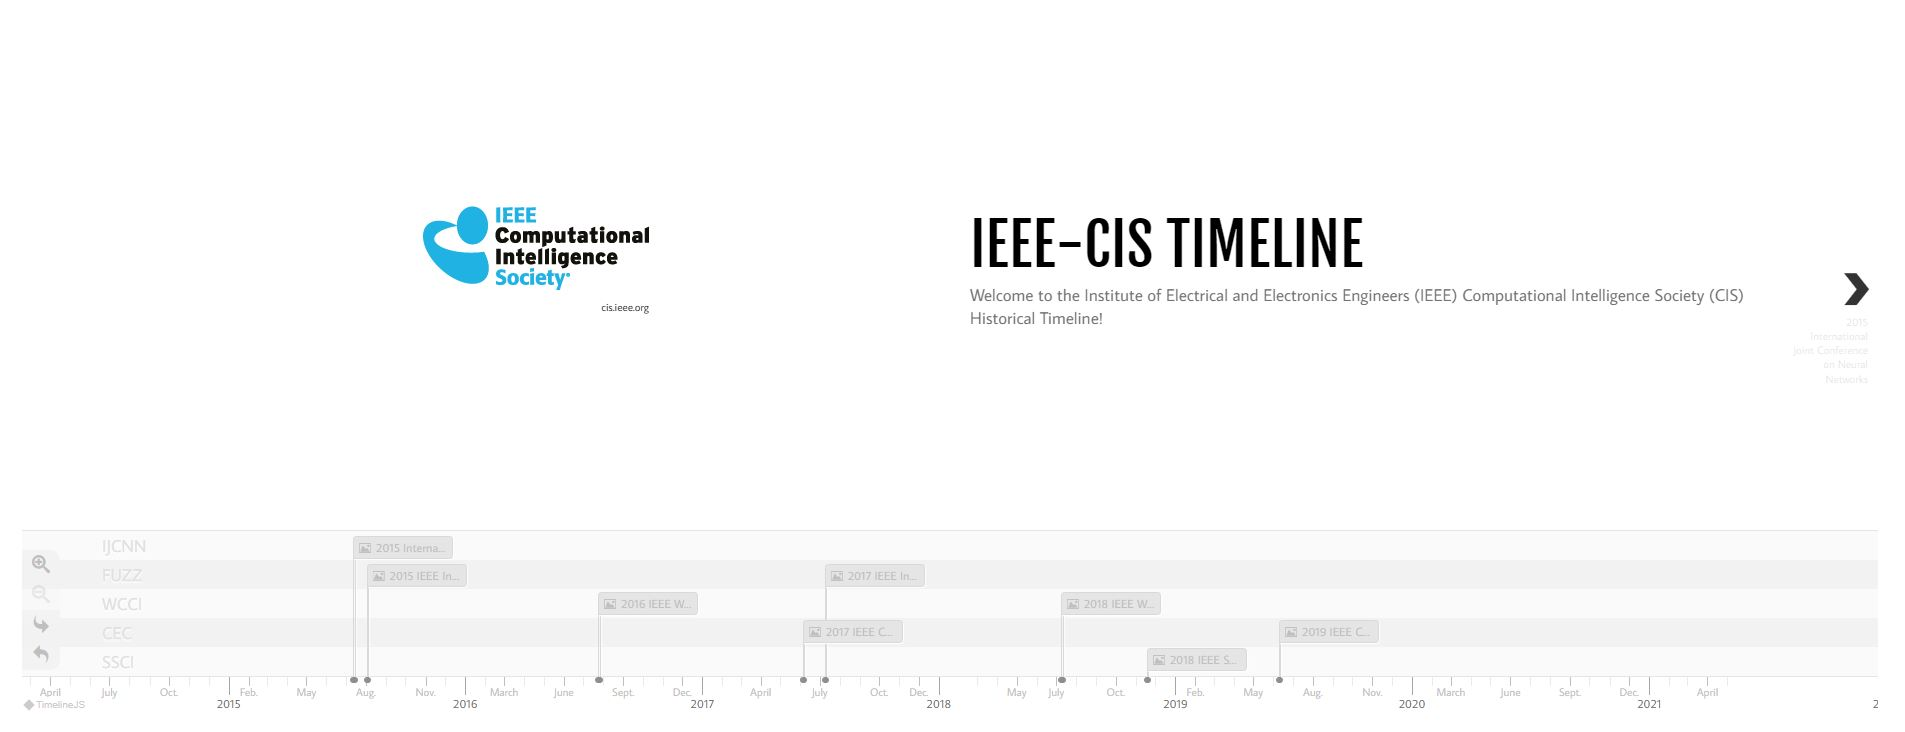
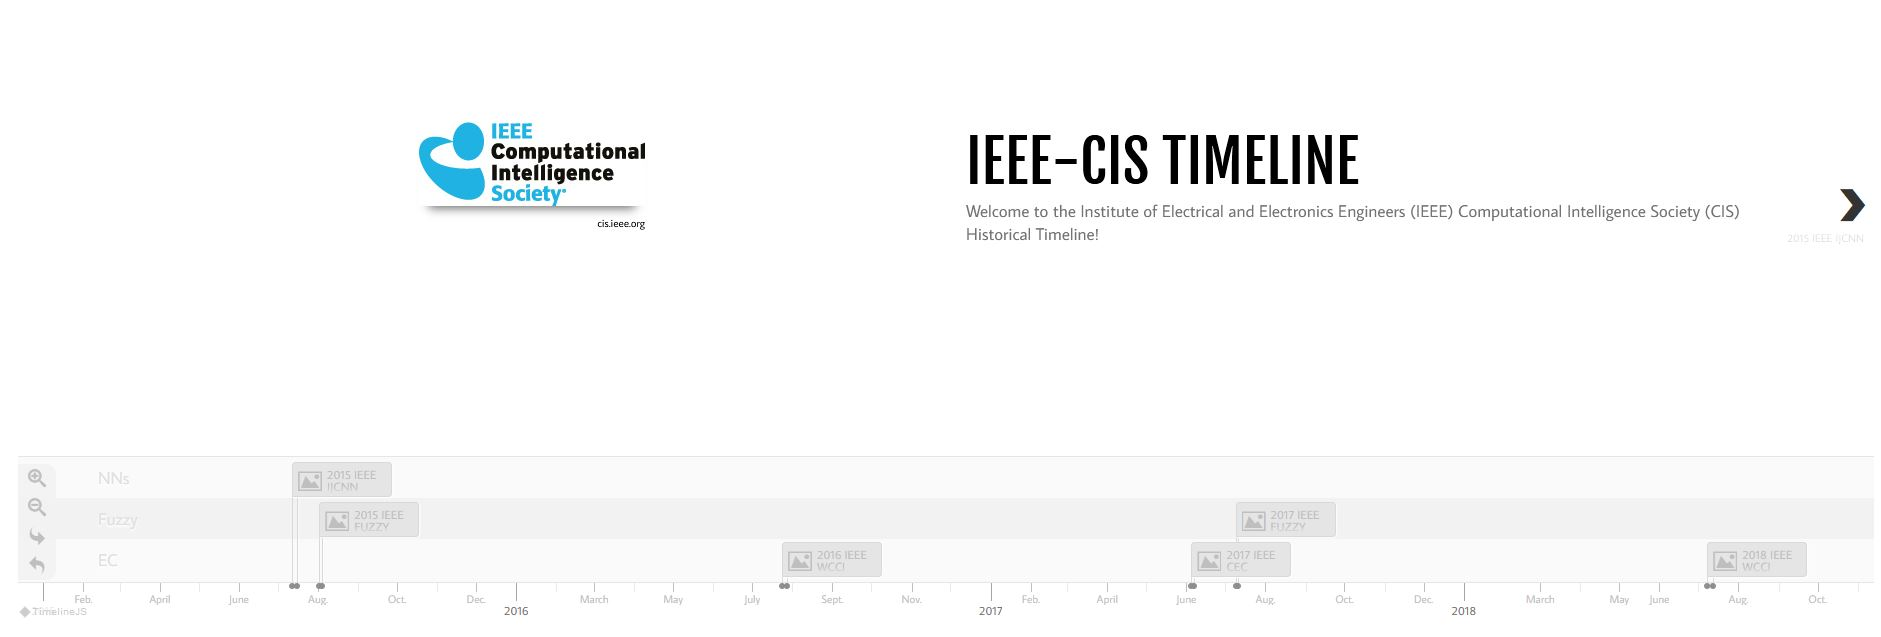
only 3 areas
fixing areas.

diff --git a/index.html b/index.html
@@ -28,7 +28,7 @@
         <button onclick="document.location='timeline-Launch.html'">Launch Production Timeline</button> <!-- Using JSON file -->
         <p>Welcome to the Institute of Electrical and Electronics Engineers <b>(IEEE)</b> Computational Intelligence Society <b>(CIS)</b> Historical Timeline!</p>
         <br>
-        <a href="/sandbox-timeline.html">
+        <a href="/sandbox-timeline.html" target="_blank">
           <img src="/img/IEEE-CIS-TIMELINE.JPG" width="90%" style="box-shadow: 0 4px 8px 0 rgba(0, 0, 0, 0.2), 0 6px 20px 0 rgba(0, 0, 0, 0.19);" title="Launch Sandbox Timeline">
         </a>
       </div>

diff --git a/event-manager.php b/event-manager.php
@@ -1,4 +1,4 @@
-Media <?php
+<?php
   ### IEEE-CIS TIMELINE PROJECT
   ### 2022-11 AH
   ### MANAGE EVENTS --> RETRIVE, CREATE, UPDATE OR DELETE TIMELINE EVENTS
@@ -120,21 +120,15 @@ Media <?php
                   $detail = explode("<br>", $eventDetails);
 
                   ### CHECK WHICH GROUP SHOULD BY SELECTED
-                  if($group == 'IJCNN'){
-                    $groupIJCNN = 'selected';
-                    $groupFUZZ = $groupWCCI = $groupCEC = $groupSSCI = '';
-                  }elseif($group == 'FUZZ'){
-                    $groupFUZZ = 'selected';
-                    $groupIJCNN = $groupWCCI = $groupCEC = $groupSSCI = '';
-                  }elseif($group == 'WCCI'){
-                    $groupWCCI = 'selected';
-                    $groupIJCNN = $groupFUZZ = $groupCEC = $groupSSCI = '';
-                  }elseif($group == 'CEC'){
-                    $groupCEC = 'selected';
-                    $groupIJCNN = $groupFUZZ = $groupWCCI = $groupSSCI = '';
-                  }elseif($group == 'SSCI'){
-                    $groupCEC = 'selected';
-                    $groupIJCNN = $groupFUZZ = $groupWCCI = $groupCEC = '';
+                  if($group == 'EC'){
+                    $groupEC = 'selected';
+                    $groupFuzzy = $groupNNs = '';
+                  }elseif($group == 'Fuzzy'){
+                    $groupFuzzy = 'selected';
+                    $groupNNs = $groupEC = '';
+                  }elseif($group == 'NNs'){
+                    $groupNNs = 'selected';
+                    $groupFuzzy = $groupEC = '';
                   }
 
                   echo "<div id='eventView' class='eventView' style='background-color:$color; background-image: url('$backgroundURL');'>
@@ -164,35 +158,46 @@ Media <?php
                         </div>
                         <br>";
 
+                  echo "<div class='iBlock'>";
+                  echo "<h2>Slide Background Color</h2>";
+                  echo "<p>Each event has a slide in the timeline and you can choose a different background color for it.
+                            The text color will be set to white automatically if the background color is dark. </p>";
                   echo "<label for='color'>Slide Background Color:</label> <input type='color' name='color' value='$color' /><br><br>";
                   #echo "<label for='backgroundURL'>Slide background URL:</label><input type='text' name='backgroundURL' value='$backgroundURL' /><br>";
+                  echo "</div>";
 
-                  echo "<hr>";
+                  echo "<div class='iBlock'>";
+                  echo "<h2>Events Dates</h2>";
+                  echo "<p>Every event must have a sart and end date. The date will be displayed in the </p>";
                   echo "<label for='start_date'>Start Date:</label><input type='date' class='dateInput' name='start_date' value='$start_date' /><br>";
                   echo "<label for='end_date'>End Date:</label><input type='date' class='dateInput' name='end_date' value='$end_date' /><br>";
-                  echo "<hr>";
+                  echo "</div>";
+
+                  echo "<div class='iBlock'>";
+                  echo "You can pull in media from a variety of sources. Twitter, Flickr, YouTube, Vimeo, Vine, Dailymotion, Google Maps, Wikipedia, SoundCloud, Document Cloud or just a simple Image.<br>";
                   echo "<label for='mediaURL'>Media URL:</label><input type='text' name='mediaURL' value='$mediaURL' /><br>";
                   echo "<label for='mediaLINK'>Media Link:</label><input type='text' name='mediaLINK' value='$mediaLINK' /><br>";
                   echo "<label for='caption'>Media Caption:</label><input type='text' name='caption' value='$caption' /><br>";
                   echo "<label for='credit'>Media Credit:</label><input type='text' name='credit' value='$credit' /><br>";
-                  echo "<hr>";
+                  echo "</div>";
 
+                  echo "<div class='iBlock'>";
                   echo "<label for='headline'>Event Title:</label><input type='text' name='headline' value='$headline' /><br>";
 
                   foreach ($detail as $key => $value) {
                     $detailNumber = 1 + $key ;
                     echo "<label for='text$key'>Event Details $detailNumber:</label><input type='text' name='text$key' value='$value' /><br>";
                   }
+                  echo "</div>";
 
-                  echo "<hr>";
+                  echo "<div class='iBlock'>";
                   echo "<label for='group'>Event Group:</label>
                           <select name='group'>
-                            <option value='IJCNN' $groupIJCNN>IJCNN</option>
-                            <option value='FUZZ' $groupFUZZ>FUZZ</option>
-                            <option value='WCCI' $groupWCCI>WCCI</option>
-                            <option value='CEC' $groupCEC>CEC</option>
-                            <option value='SSCI' $groupSSCI>SSCI</option>
+                            <option value='Fuzzy' $groupFuzzy>Fuzzy</option>
+                            <option value='EC' $groupEC>EC</option>
+                            <option value='NNs' $groupNNs>NNs</option>
                           </select>";
+                  echo "</div>";
 
                 } // if($unique_id == $eId)
               } // if($key == 'unique_id')

diff --git a/event.php b/event.php
@@ -19,11 +19,11 @@
         text-align:right;
       }
       .iBlock{
-        margin: auto;
         text-align:left;
         border-radius: 5px;
-        background-color: #f2f2f2;
+        background-color: #f9f9f9;
         padding: 1em;
+        border: #dddcdc;
       }
       .eventView{
         border: 1px solid gray;
@@ -66,8 +66,12 @@
           padding:10px 30px;
           width: 90%;
         }
-        .iBlock{
+        .formBlock{
             width: 80%;
+            margin: auto;
+        }
+        .iBlock{
+          margin: 2em;
         }
 
       }
@@ -90,7 +94,7 @@
         <br>
       </div>
 
-      <div class="iBlock">
+      <div class="formBlock">
         <form method="post" action="event-manager.php">
           <input type="hidden" name="eId" value="<?php echo $_GET['eId']; ?>" />
         <?php
